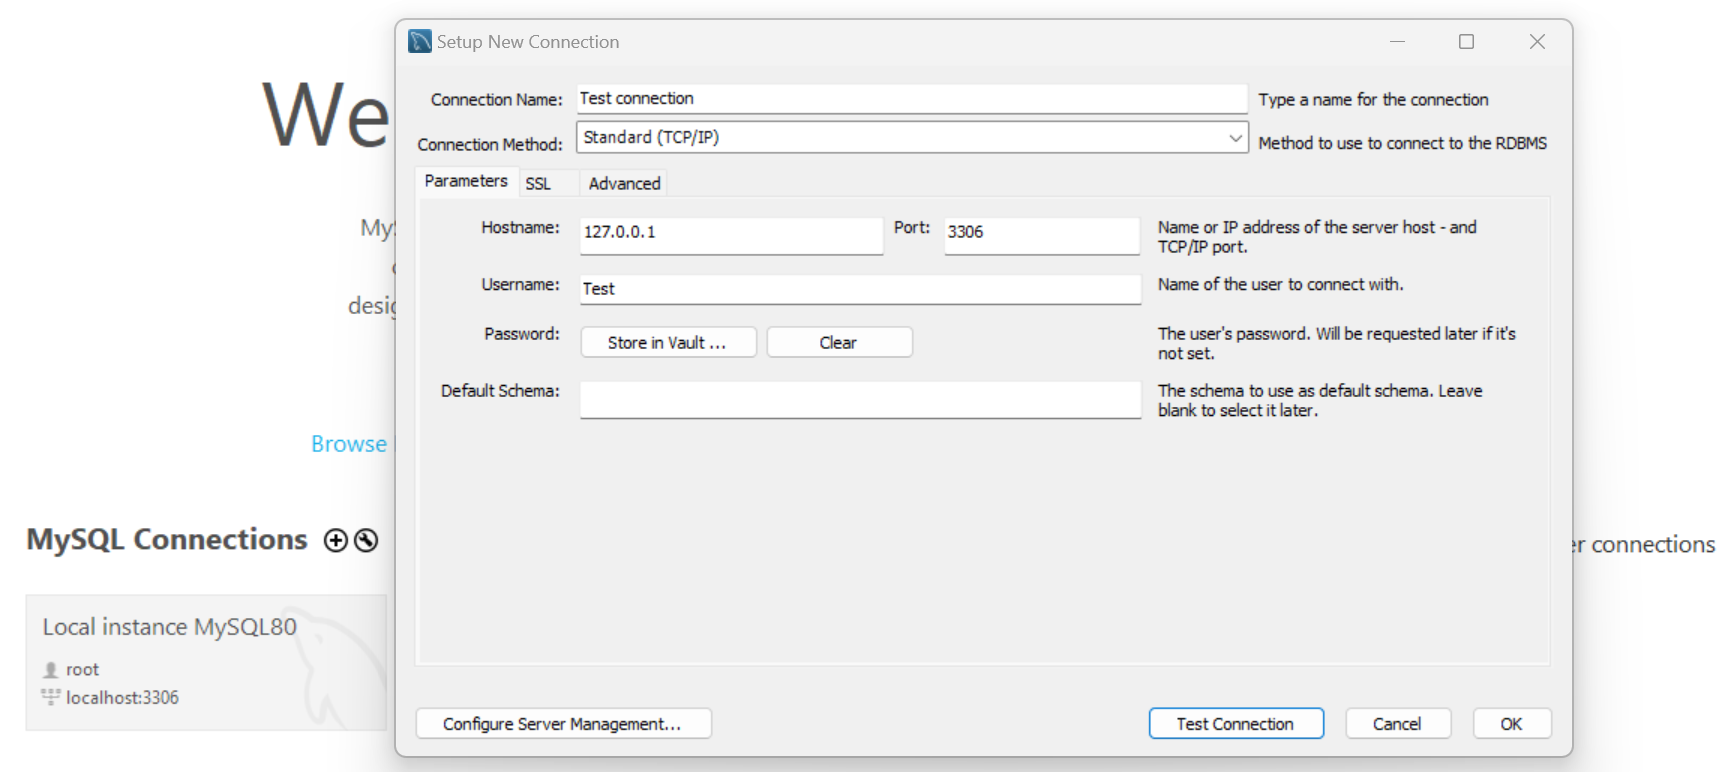
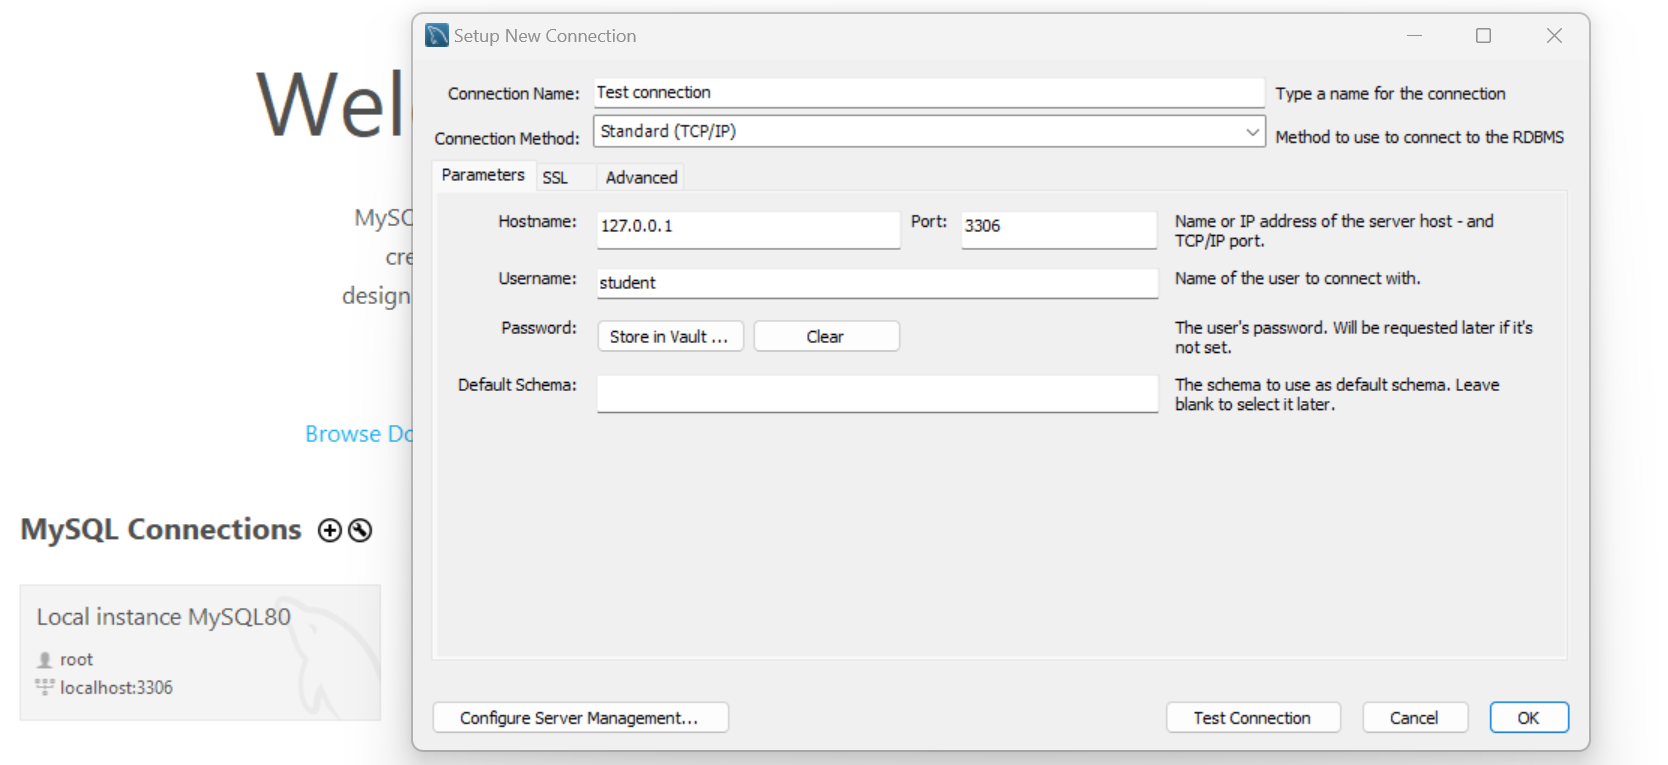
Added installation instructions

diff --git a/pages/dashboard.py b/pages/dashboard.py
@@ -242,10 +242,13 @@ def update_cards(df_json, station_id):
             last_row = pd.read_sql_query(text(f"SELECT * FROM station{station_id} ORDER BY id DESC LIMIT 1"), con)
             last_row.replace(to_replace=[None], value="N/A", inplace=True)
 
-        return [
-            f"Aktuelle Werte von: {station_name}",
-            f"zuletzt aktualisiert: {last_row['timestamp'].iat[0]}"
-        ] + [f"{last_row[element].iat[0]}{elements[element]['unit']}" for element in elements]
+        if not last_row.empty:
+            return [
+                f"Aktuelle Werte von: {station_name}",
+                f"zuletzt aktualisiert: {last_row['timestamp'].iat[0]}"
+            ] + [f"{last_row[element].iat[0]}{elements[element]['unit']}" for element in elements]
+        else:
+            raise PreventUpdate
     else:
         raise PreventUpdate
 

diff --git a/db_init.py b/db_init.py
@@ -104,7 +104,7 @@ if __name__ == "__main__":
         app.mainloop()
         # End user creation -----------------------------------------------------------------------------------------
 
-        print("MySQL database has been initialized successfully")
+        print("MySQL database has successfully been initialized")
 
     except exc.SQLAlchemyError as err:
         print(f"An error occured while trying to initialize MySQL database:\n{err.__cause__}")

diff --git a/README.md b/README.md
@@ -9,8 +9,8 @@ In den nachfolgenden Abschnitten wird in Kürze erläutert wie die Software unte
 ### Erforderliche Software
 
 1. Installieren Sie die neueste Version von Python 3 über den folgenden Link:
-   https://www.python.org/downloads/. Wählen Sie hierbei die Checkbox **Add Python 3.x to PATH** aus
-2. Laden und entpacken Sie das Projekt aus GitHub über den folgenden Link:
+   https://www.python.org/downloads/. Wählen Sie hierbei die Checkbox **Add python.exe to PATH** aus
+2. Laden Sie das Projekt als ZIP Ordner aus GitHub über den folgenden Link herunter und entpacken Sie es:
    https://github.com/HahnLuca/weather-visualization  
 
     ![project download](project_download.png)  
@@ -30,7 +30,7 @@ Im MySQL Installer können größtenteils die Default-Einstellungen verwendet we
 4. Im Abschnitt "Choosing a Setup Type" reicht es "Custom" auszuwählen, da nur der "MySQL Server" und
    die "MySQL Workbench" für die Verwendung der Software notwendig sind.
 5. Daraufhin können die neuesten Versionen des bereits erwähnten "MySQL Servers" und der "MySQL Workbench"
-   unter "Applications" ausgewählt und hinzugefügt werden.  
+   unter "Select Products" ausgewählt und hinzugefügt werden.  
 
     ![mysql products](mysql_products.png)  
 
@@ -42,7 +42,7 @@ Im MySQL Installer können größtenteils die Default-Einstellungen verwendet we
 
 8. In den nächsten Fenstern sind wieder die Default-Einstellungen zu übernehmen.
 9. Im Anschluss an die Installation öffnen Sie die MySQL Workbench.
-10. Hier können Sie über das Plus eine neue "MySQL connection" anlegen 
+10. Hier können Sie über das Plus eine neue "MySQL Connection" anlegen 
     und dabei, den von Ihnen angelegten User verwenden.  
 
     ![mysql connection](mysql_con.png)  
